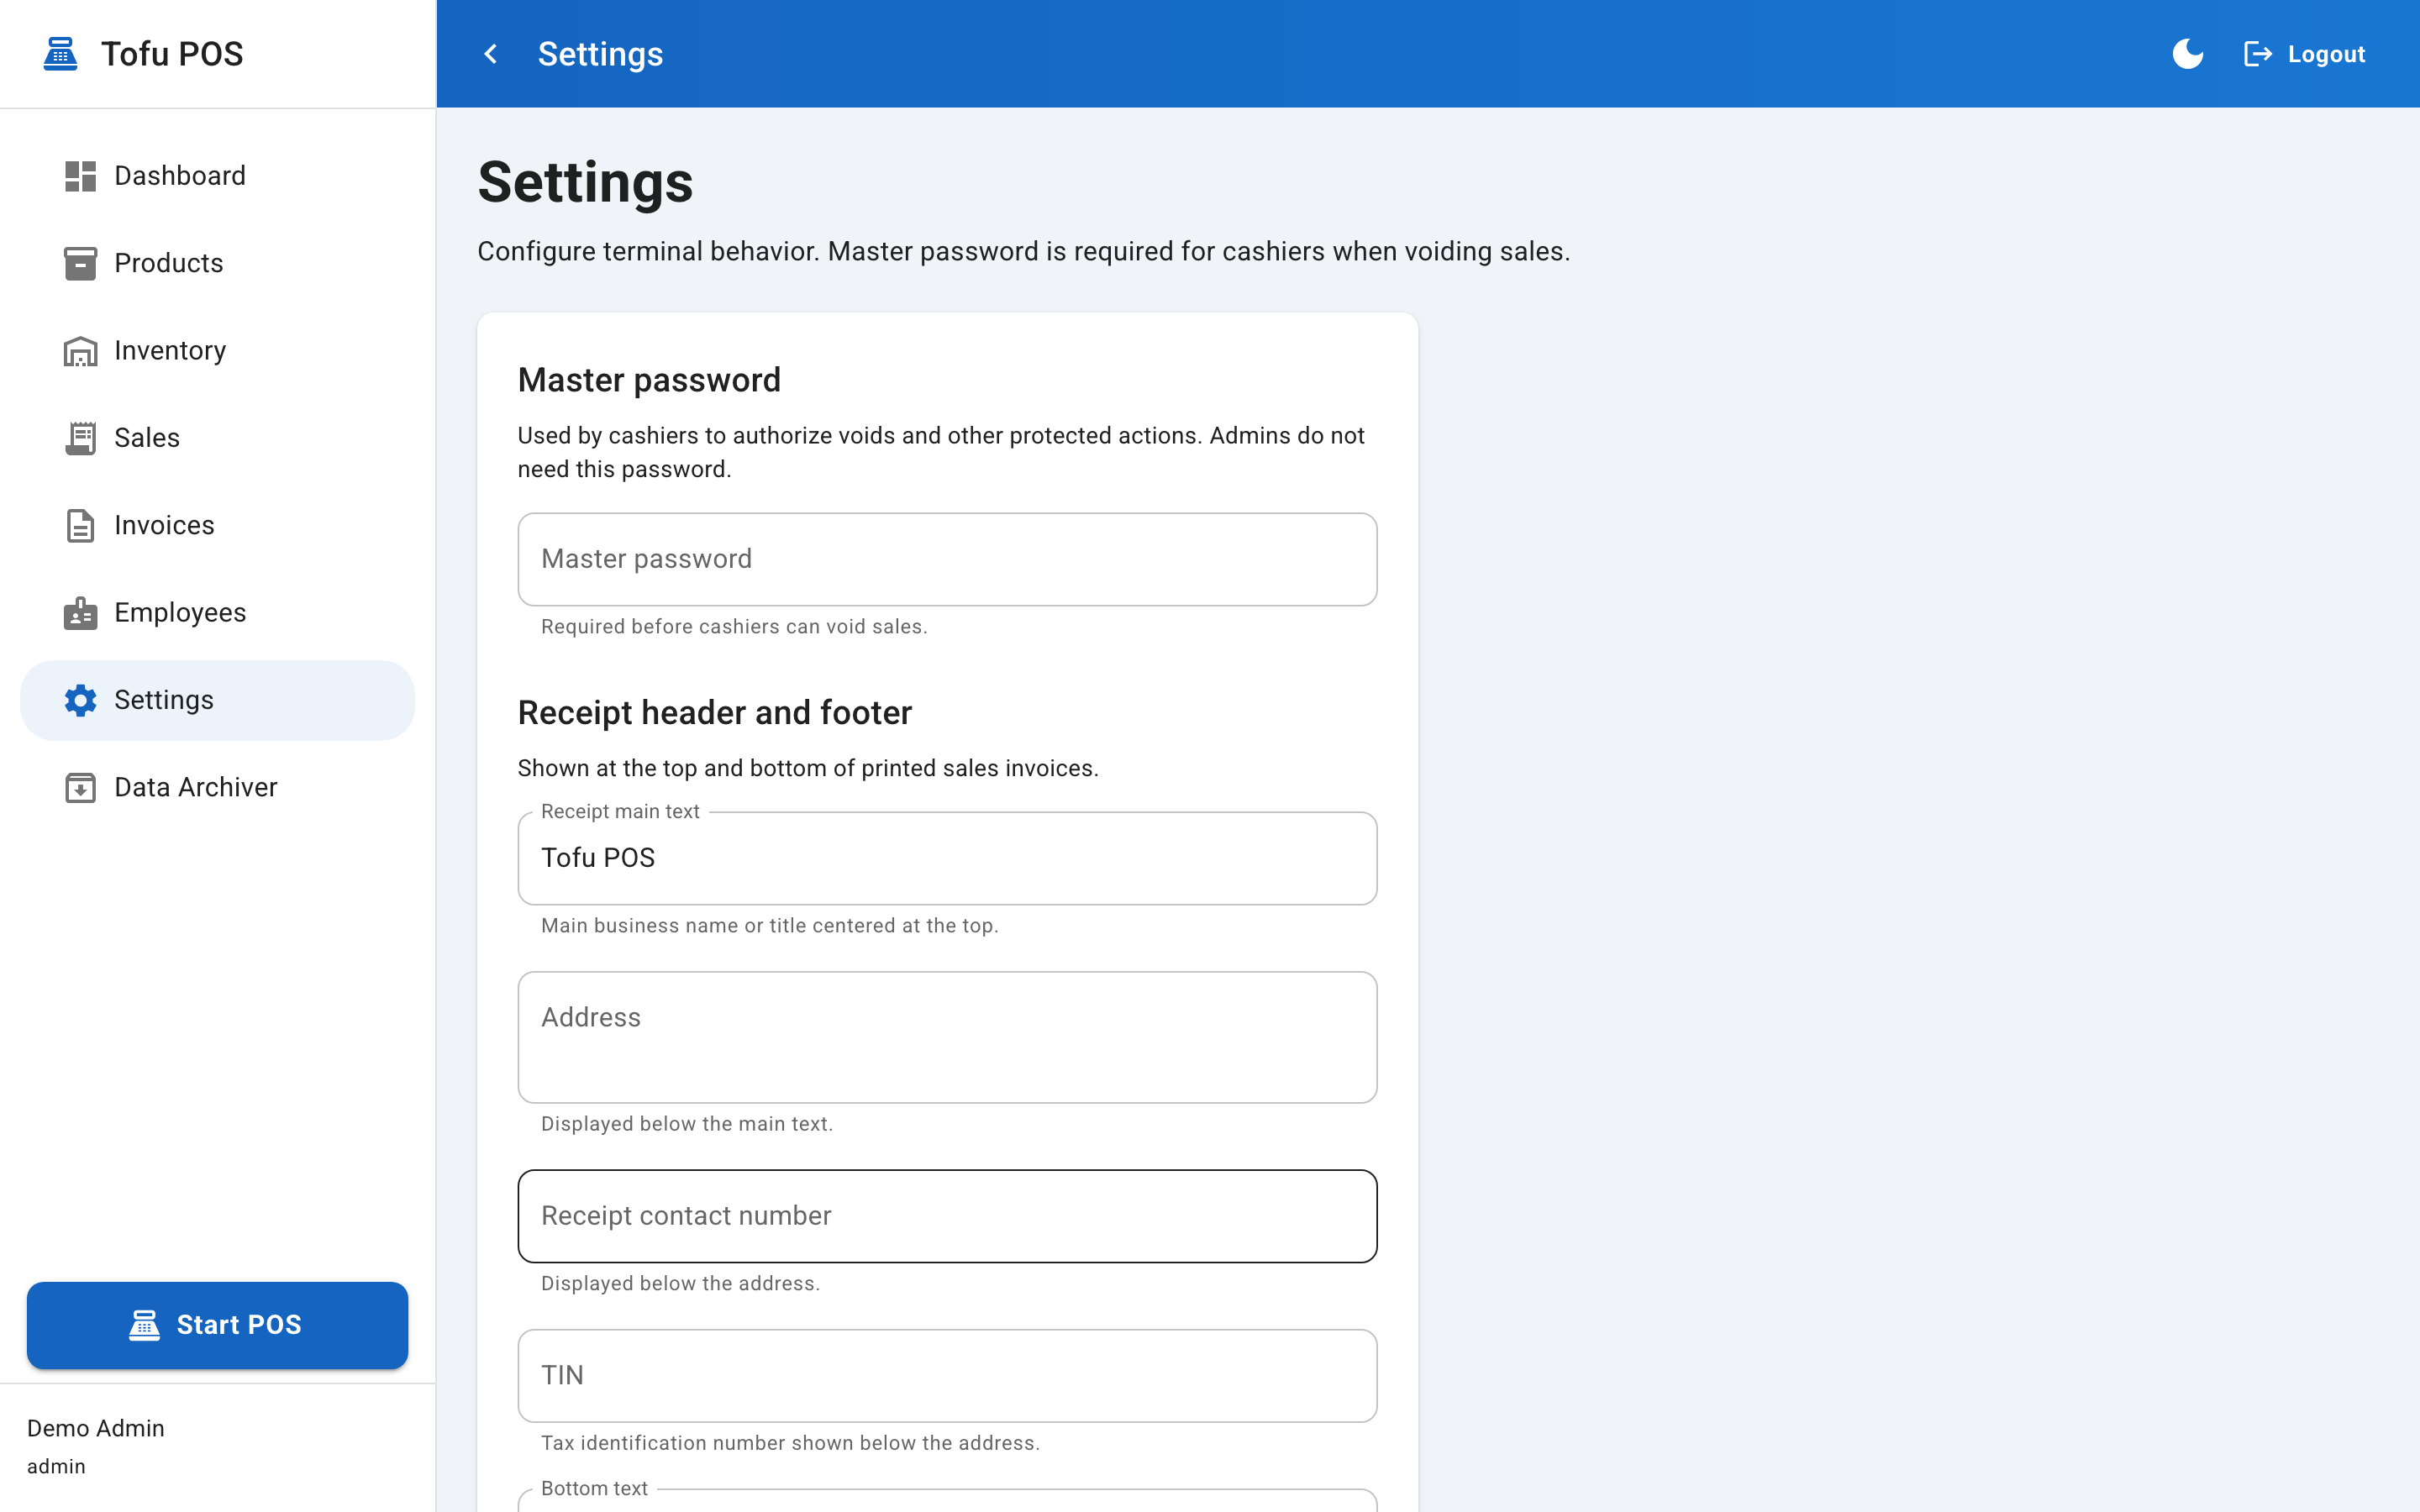
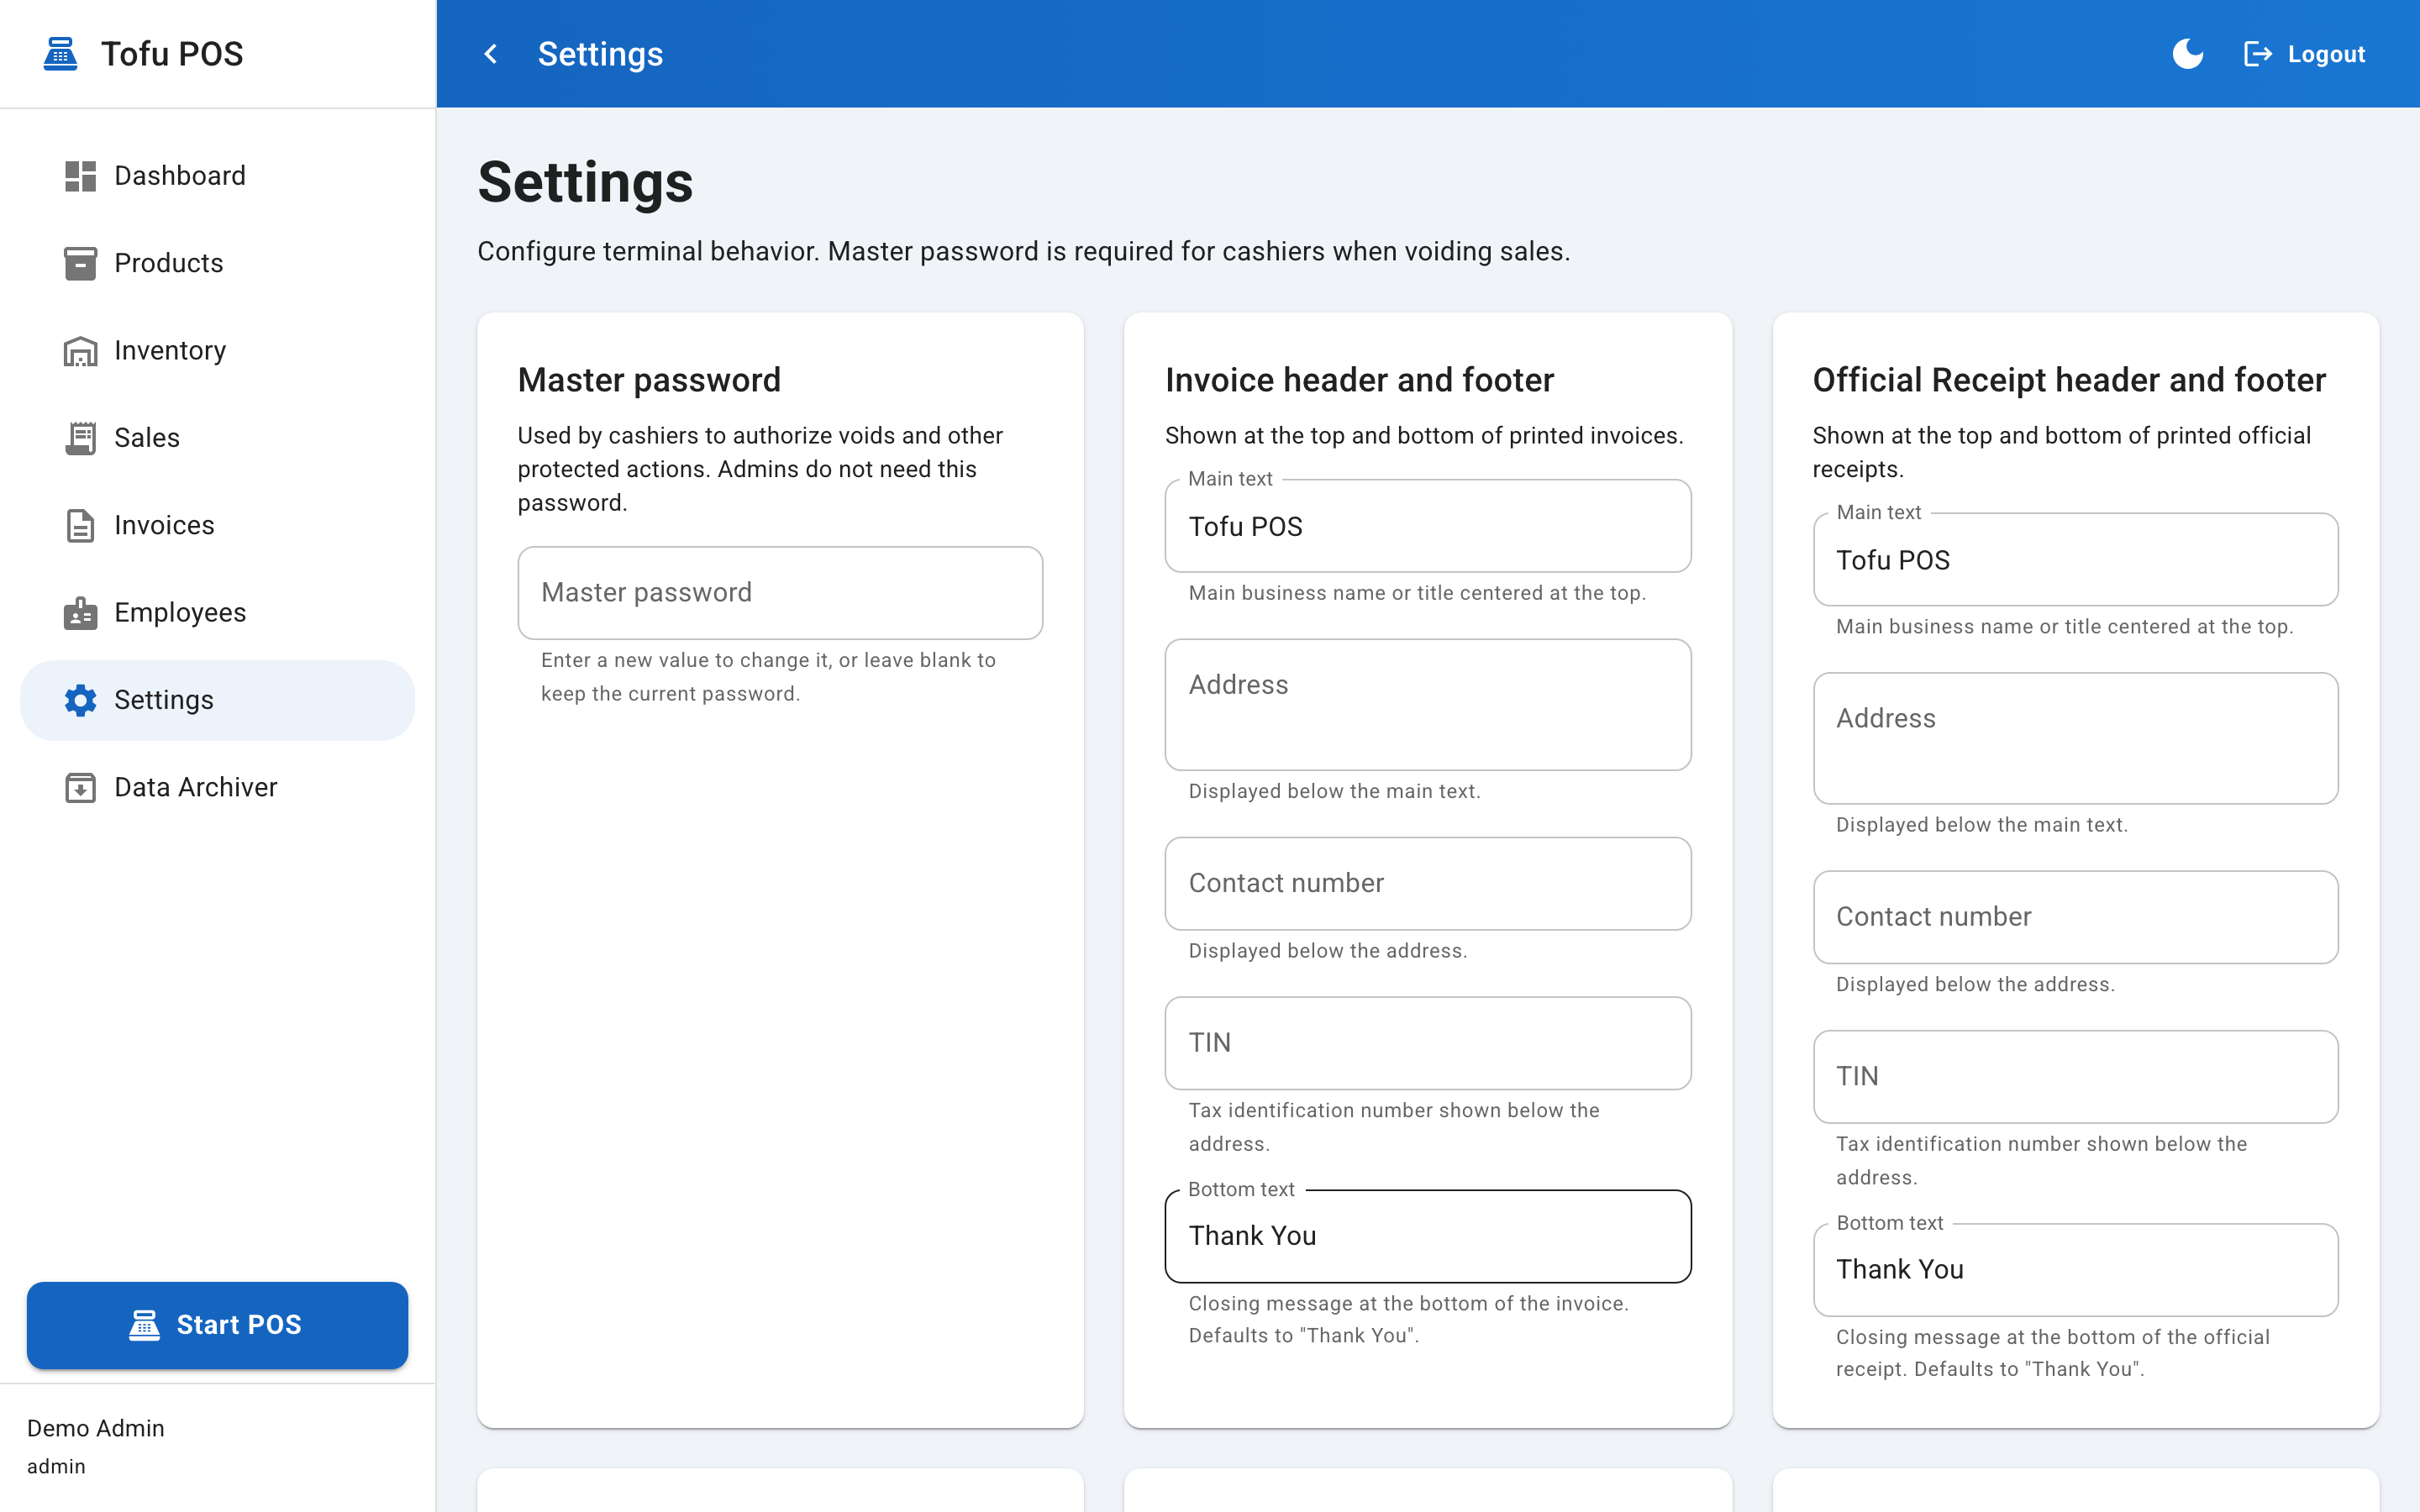
changelog fix

diff --git a/README.md b/README.md
@@ -43,7 +43,7 @@ Admin catalog management with barcodes, variants, images, stock quantities, and 
 
 ### Settings
 
-Receipt header/footer, VAT, master password, auto-invoice, and barcode scanning options.
+Invoice and receipt headers, VAT, master password, Auto Print, and barcode scanning options.
 
 ![Settings page](docs/screenshots/05-settings.png)
 
@@ -66,7 +66,8 @@ Receipt header/footer, VAT, master password, auto-invoice, and barcode scanning 
 - Complete transaction history with line-item detail
 - Sequential 6-digit invoice numbers (`000001`, `000002`, …)
 - 80 mm thermal-style PDF receipts via jsPDF
-- Optional auto-invoice + print after each completed sale
+- Invoice, Official Receipt, and Acknowledgement Receipt print formats
+- Optional Auto Print after each completed sale (Off, Invoice, Official Receipt, or Acknowledgement Receipt)
 - Void sales with stock restoration (cashiers require master password)
 - VAT breakdown on every invoice
 
@@ -168,7 +169,7 @@ There are **no built-in default credentials**. Every installation starts from th
 3. Adjust quantities with **+** / **−** or remove lines.
 4. Enter the amount paid via the numpad or quick-bill buttons.
 5. Press **Complete sale** when the amount covers the total.
-6. If **Auto-invoice** is enabled in Settings, an invoice is created and the print dialog opens.
+6. If **Auto Print** is enabled in Settings, the selected document is printed automatically (Invoice also creates an invoice record).
 
 ### Barcode scanning
 
@@ -178,20 +179,21 @@ Camera-based scanning is not implemented; the scanner icon refers to keyboard-we
 
 ---
 
-## Invoice printing
+## Receipt printing
 
 Receipts are generated client-side as PDF using jsPDF:
 
 - **Width:** 80 mm (thermal receipt format)
-- **Header:** Main text, address, contact number, TIN
-- **Body:** Date, cashier, invoice number, line items, net amount, VAT, total, amount paid, change
-- **Footer:** Configurable bottom text (default: "Thank You")
+- **Document types:** Invoice, Official Receipt, Acknowledgement Receipt (each with a bold title header)
+- **Header:** Main text, address, contact number, TIN (Invoice and Official Receipt use separate header/footer settings)
+- **Body:** Date, cashier, document number, line items, net amount, VAT, total, amount paid, change
+- **Footer:** Configurable bottom text, or fixed **THIS IS NOT OFFICIAL RECEIPT** for Acknowledgement Receipts
 
 **Print flow:**
 1. PDF opens in a new window with the browser/Electron print dialog.
-2. If popups are blocked, the file downloads as `invoice-XXXXXX.pdf`.
+2. If popups are blocked, the file downloads as `invoice-XXXXXX.pdf`, `official-receipt-XXXXXX.pdf`, or `acknowledgement-receipt-XXXXXX.pdf`.
 
-Invoices can be printed from **POS** (auto-invoice), **Sales**, or **Invoices**.
+Documents can be printed from **POS** (Auto Print), **Sales**, or **Invoices**.
 
 ---
 
@@ -200,14 +202,19 @@ Invoices can be printed from **POS** (auto-invoice), **Sales**, or **Invoices**.
 | Setting | Default | Description |
 |---------|---------|-------------|
 | Master password | *(empty)* | Required for cashiers to void sales; required to archive data |
-| Receipt main text | `Tofu POS` | Bold centered header on receipts |
-| Address | *(empty)* | Multiline address below header |
-| Receipt contact number | *(empty)* | Phone or contact line |
-| TIN | *(empty)* | Tax ID, printed as `TIN: …` |
-| Bottom text | `Thank You` | Receipt footer |
-| VAT percentage | `12` | VAT rate applied to invoice subtotals (0–100) |
+| Invoice main text | `Tofu POS` | Bold centered store name on invoices |
+| Invoice address | *(empty)* | Multiline address below header |
+| Invoice contact number | *(empty)* | Phone or contact line |
+| Invoice TIN | *(empty)* | Tax ID, printed as `TIN: …` |
+| Invoice bottom text | `Thank You` | Invoice footer |
+| Official Receipt main text | `Tofu POS` | Bold centered store name on official receipts |
+| Official Receipt address | *(empty)* | Multiline address below header |
+| Official Receipt contact number | *(empty)* | Phone or contact line |
+| Official Receipt TIN | *(empty)* | Tax ID, printed as `TIN: …` |
+| Official Receipt bottom text | `Thank You` | Official receipt footer |
+| VAT percentage | `12` | VAT rate applied to receipt subtotals (0–100) |
 | Continuous barcode scanning | Off | Keep barcode dialog open between scans |
-| Auto-invoice | Off | Create and print an invoice after each POS sale |
+| Auto Print | Off | Print Invoice, Official Receipt, or Acknowledgement Receipt after each POS sale |
 
 ---
 
@@ -414,11 +421,10 @@ Screenshots in `docs/screenshots/` can be refreshed after UI changes:
 ```bash
 npm run build
 npx vite preview --port 4173 --strictPort &
-npx playwright install chromium   # one-time
 node scripts/capture-screenshots.mjs
 ```
 
-Requires Playwright (`npm install -D playwright`) and a running preview server.
+Requires Playwright (`npm install -D playwright` — already in devDependencies) and a running preview server. Run `npx playwright install chromium` once if browsers are not installed.
 
 ---
 